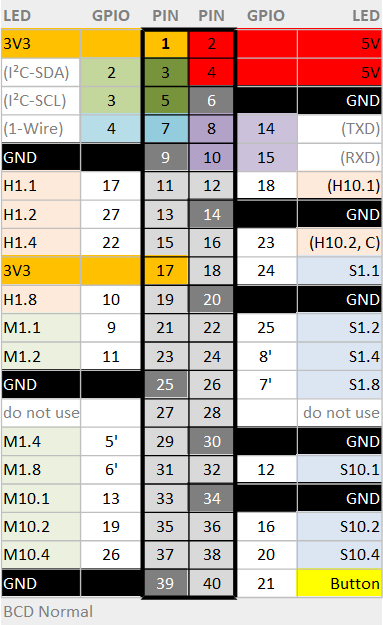
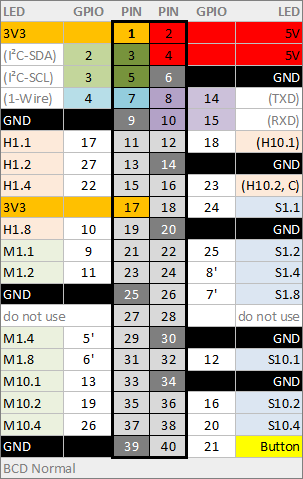
rework of documentation

Changed region(s): [[0.0, 0.0, 1.0, 1.0]]

diff --git a/franconian.md b/franconian.md
@@ -1,13 +1,87 @@
 # Franconian Clock
-Franconian LED Clock based on Raspberri Pi Zero W and pigpio-lib
 
-## Hardware Design
+![franconian.png](/franconian.Demo.jpg)
+
+A real word clock with 24 LEDs controlled by a Raspberry Pi Zero W (RPi) in Python.
+
+## The goal:
+Reduce the additional components to an absolute minimum. No additional PCBs or parts (shift register, port expander, driver, resistors, …) are needed.
+
+## The Result:
+Just glue 24 strong LEDs behind/below acrylic plates with the words and wire them directly to the RPi pads. The soldering is reduced to cables between LEDs and RPi. The clock can be powered over a Micro-USB cable from a mobile phone power supply.
+
+## The Features:
+ * The transitions between time values are blended via PWM for all LEDs.
+ * The current time is received via NTP over WiFi.
+ * Two free pins for additional gadgets (I²C, GPIO).
+
+
+
+# Details
+
+## The words:
+In the German language it is common to say „halb zwölf“ (translated: „half twelve“ or „half of twelve“ = 11:30h).
+
+In a little area in the south of Germany – Franconia – you can hear people saying consequently „viertel zwölf“ („quarter twelve“ = 11:15h) and „dreiviertel zwölf“ („three-quarter twelve“ = 11:45h). In the other parts of Germany the Franconians often are not understood.
+
+It is also common to say „fife to twelve“ (11:55h) and „fife past twelve“ (12:05h). This is equal in German and English.
+
+In final consequence it is logical to say „zwei vor dreiviertel zwölf“ („two to tree-quarter twelve“ = 12:42h = 23:42h)
+
+The clock is using this Franconian schema/wording to show the time with 24 elements/LEDs.
+
+Most other so called “word clocks” are using illuminated characters and get a time in a resolution of 5 minutes. The Franconian clock uses 24 complete words and gets a time resolution of 1 minute!
+
+#### To implement this wording you use 4 groups:
+
+ * Numbers 1 to 7 for minutes
+ * “to” and “past”
+ * “quarter”, “half” and “three-quarter” (the “quarter” is shared)
+ * Numbers 1 to 12 for hours
+
+
+## Easy to Build
+
+Reducing the electronic components to the RPi, the LEDs and the wires between them, you can concentrate on form and design.
+
+## LEDs
+
+Using high luminance LEDs with a max. of 3.1 volts. Any color you like.
+
+The current to the LEDs is limited by the RPi to 8 mA per GPIO via software. Possible values are 2, 4, 8, 16 (higher than 8 is not recommended). The usual resistor in line of the LED is not needed!
+
+## Powering
+
+The RPi can be powered over a Micro-USB cable. Use a mobile phone power supply (for USB) or a nearby PC/server with USB.
+
+The typical current at the 5 volts line is about 100 mA with peaks up to 300 mA when WiFi fires.
+
+## Design
+
+Following the rules of the wording you are free to sculpt, form and place the illuminated words with any material and technique.
+
+## Upgrading
+
+To use low voltage bulbs (5...24V), you can add 3 driver ICs like the ULN2803 directly to the RPi without a level shifter.
+
+Pins for I²C are left free for additional IoT gadgets for e.g. temperature, humidity, luminosity, presence, notification... 
+
+
+# Instructions
+
+## RPi Pinout
+
+Pins 7 to 40 should be used for the clock LEDs.
+
+Pins 1 to 6 are free for optional I²C devices and other GPIO stuff.
+
+### Default Pinout:
+
+![Franconian.Pinout.png](/franconian.Pinout.png)
 
 Four groups to set the time as text:
 
 E.g.: "| drei | vor | drei.viertel | zwölf |" (23:42h)
-
-24 LEDs are needed.
 
 #### Minute group in random order
 | Pin | engl. | ger. |
@@ -29,7 +103,7 @@ E.g.: "| drei | vor | drei.viertel | zwölf |" (23:42h)
 #### Quater group - Q3 followed directly by Q1; Q2 anywhere
 | Pin | engl. | ger. |
 | --- | --- | --- |
-| Q1 | ...quater | ...viertel |
+| Q1 | ...quarter | ...viertel |
 | Q2 | half | halb |
 | Q3 | three... | drei... |
 
@@ -50,22 +124,18 @@ E.g.: "| drei | vor | drei.viertel | zwölf |" (23:42h)
 | H12 | twelve | zwölf |
 
 
+Note: The LED to GPIO mapping can be easily changed in source code
 
-#### LEDs
-Solder all cathodes (short leg) of the LEDs together and connect them to GND.
-Solder the anodes (long leg) of the LEDs to the corresponding pin on the RPi (see pinout). Resistors are not necessary
+## RPi Software
 
-Note: The current to the LEDs is limited by the RPi to 8 mA per GPIO via software. Possible values are 2, 4, 8, 16
-Note: A maximum of 5 LEDs is powered at the same time.
+See detail description on https://github.com/fablab-wue/piClock/blob/master/prepare.md
 
-#### RPi Pin Header
+In short:
 
-Pins 4 to 40 should be used for the LEDs.
+ * Setup network/WiFi
+ * Disable SPI, 1-Wire, Serial
+ * Install Python3, pigpio-lib
+ * Download source from GitHub
+ * Autostart at boot the ~/piClock/franconian.py
 
-Pins 3 and 5 are free for optional I²C devices or other GPIO stuff.
-
-
-## Pinout
-![Franconian.Pinout.png](/franconian.Pinout.png)
-
-Note: The LED to GPIO mapping can be changed in source code
+Linux experts will configure the RPi in no-time. Less experienced users (like me) needed more time for configuring than for wood-working and soldering.

diff --git a/bcd.md b/bcd.md
@@ -1,25 +1,99 @@
 # BCD Clock
-BCD LED Clock based on Raspberri Pi Zero W and pigpio-lib
 
-## Hardware Design
+![bcd.png](/bcd.Demo.jpg)
+
+A classic BCD (binary coded decimal) clock with 18 or 20 LEDs (12h or 24h) controlled by a Raspberry Pi Zero W (RPi) in Python.
+
+## The goal:
+Reduce the electronic components to an absolute minimum. No additional PCBs or parts (shift register, port expander, driver, resistors, …) are needed.
+
+## Result:
+Just glue 18 or 20 standard LEDs into a front panel and wire them directly to the RPi pads. The soldering is reduced to cables between LEDs and RPi. The clock can be powered over a Micro-USB-cable from a mobile phone power supply.
+
+## Features:
+ * The transitions between time values are blended via PWM for all LEDs.
+ * The PWM is also used to let those LEDs that are off glow a bit for better reading at night.
+ * 12 and 24 hour format.
+ * Additional LEDs for am/pm and colon can be configured in software.
+ * The current time is received via NTP over WiFi.
+ * 6 free pins for additional gadgets (I²C, 1-Wire, serial, GPIO, …).
+
+# Details
+
+## Easy to Build
+
+Reducing the electronic components to one RPi, the LEDs, and the wires between them allows you to concentrate on the form and design.
+
+## LEDs
+
+Using standard LEDs with a max. of 3.1 volts. Any color and shape you like.
+
+The current to the LEDs is limited by the RPi to 4 mA per GPIO via software. Possible values are 2, 4, 8, 16 (higher than 4 is not recommended). The usual resistor in line of the LED is not needed!
+
+## Powering
+
+The RPi can be powered over a Micro-USB cable. Use a mobile phone power supply (for USB) or a nearby PC/server with USB.
+
+The typical current on the 5 volts line is about 100 mA with peaks up to 300 mA when WiFi fires.
+
+## Adaption
+
+The clock is implemented in the Python file ~/piClock/bcd.py. It can be adapted to use a different pin to LED mapping, and 2 additional pins can be defined to extend the displayable hours to 24.
+
+## Upgrading
+
+To use low voltage bulbs (5...24V), you can add 3 driver ICs like the ULN2008 or ULN2803 directly to the RPi without a level shifter.
+
+To use a pure binary display (6 LEDs for minutes/seconds) the python program can be easily adapted.
+
+Pins for I²C, 1-Wire, serial and button are left free for additional IoT gadgets for e.g. temperature, humidity, luminosity, presence, notifications...
+
+
+# Instructions 
+
+## Housing
+
+In this example I used LASER-cut plywood with a veneer layer and bend cuts.
+
+Feel free to use any kind of material and technique for your housing.
+
+## Layout
+
+The BCD coding uses 4 LEDs for the second digit and 3 LEDs for the first digit. In the 12-hour configuration the hours are also displayed with 4 LEDs.
+
+The layout can be horizontal (like this example) or vertical. The second digit LEDs can be aligned in a row or between the first digit LEDs. Feel free to experiment/design.
+
 ![bcd.FrontView.png](/bcd.FrontView.png)
 
-#### LEDs
-Solder all cathodes (short leg) of the LEDs together and connect them to GND.
-Solder the anodes (long leg) of the LEDs to the corresponding pin on the RPi (see pinout). Resistors are not necessary
+## LEDs
 
-Note: The current to the LEDs is limited by the RPi to 4 mA per GPIO via software. Possible values are 2, 4, 8, 16 (higher than 4 is not recommended).
+Solder all cathodes (short leg, minus) of the LEDs together and connect them to GND. Solder the anodes (long leg, plus) of the LEDs to the corresponding pin on the RPi (see pinout). Resistors are not necessary.
 
-#### RPi Pin Header
+## RPi Pinout
 
-Pins 11 to 38 should be used for the LEDs.
+Pins 11 to 38 should be used for the clock LEDs.
 
-Pins 39 to 40 is reserved for an option button
+Pins 39 to 40 is reserved for an option button.
 
 Pins 1 to 10 are free for optional I²C devices, 1-Wire devices, serial adapter and other GPIO stuff.
 
+#### Default Pinout:
 
-## Pinout
 ![bcd.Pinout.png](/bcd.Pinout.png)
 
-Note: The LED to GPIO mapping can be changed in source code
+Note: The LED to GPIO mapping can be easily changed in source code
+
+## RPi Software
+
+See detail description on https://github.com/fablab-wue/piClock/blob/master/prepare.md
+
+#### In short:
+
+ * Setup network/WiFi
+ * Disable SPI
+ * Install Python3, pigpio-lib
+ * Download source from GitHub
+ * Autostart at boot the ~/piClock/bcd.py
+
+Linux experts will configure the RPi in no-time. Less experienced users (like me) needed more time for configuring than for wood-working and soldering.
+

diff --git a/README.md b/README.md
@@ -19,17 +19,36 @@ See [detail description](/franconian.md)
 
 ## Pro and Cons for using a Raspberry Pi instead of Arduino/ESP
 
+### Why RPi?
+
 #### Pros:
-* The RPi can use 26 GPIO pins directly with PWM without aa additional port expander or shift register. Most smaller/cheeper controller has too less pins to drive the LEDs directly.
-* The RPi has a build in current limiter at GPIO pins. Resistors in line to LEDs are not necessary.
-* The RPi Zero has an onboard WiFi to get the correct time via NTP. No external RTC needed.
-* The RPi Zero has additional power and pins to run additional IoT features.
-* Faster development (and code change).
+
+ * The RPi can use up to 26 GPIO pins directly without an additional port expander or shift register. Most smaller/cheaper controllers do not have enough pins to drive the 20 LEDs directly.
+ * The RPi has a built in current limiter on the GPIO pins. Resistors in line to LEDs are not necessary.
+ * The RPi Zero has onboard WiFi to get the correct time via NTP. No external RTC is needed.
+ * The RPi Zero has sufficient power and pins to run additional IoT features.
+ * Faster development (and code change). 
 
 #### Cons:
-* Linux! Many steps to do for setup the controller. See next chanpter...
-* Linux! Potential security leak in your local network.
-* Little more expensive (about 20 Euro) than a ESP8266 (about 7 Euro).
+
+ * Linux! Many steps to setup the controller. See chapter on GitHub Wiki...
+ * Linux! Potential security leaks to your local network.
+ * A little more expensive (about 20 Euro incl. MicroSD) than an ESP8266 (<7 Euro). 
+
+### Why pigpio-lib?
+
+#### Pros:
+
+ * This lib can handle software PWM for ALL 26 GPIOs without glitches.
+ * Faster than BCM-lib.
+ * Development and debugging can be done on your PC, remote-controlling the RPi GPIOs over the network.
+ * Implementation for several programming languages available. 
+
+#### Cons:
+
+ * pigpio-deamon eats 7...10 percent of CPU time continously, independent of how many GPIOs or PWMs are active.
+ * The lib's documentation leaves room for improvement. 
+
 
 ## Prepare the Raspberry Pi Zero
 
